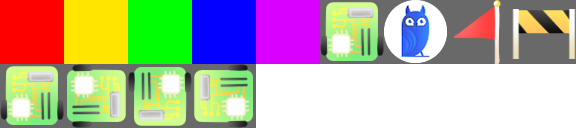
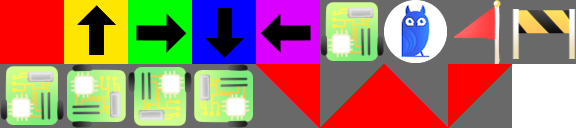
3.1.9 map_editor.md

Changed region(s): [[0.4375, 0.5, 0.9062, 1.0], [0.125, 0.0312, 0.5625, 0.4375]]

diff --git a/map_editor.md b/map_editor.md
@@ -1,13 +1,20 @@
 # 迷宮製作教學
 
-此文將會介紹如何使用`Tiled`這個軟體製作一個地圖，並放進[PAIA迷宮自走車](https://github.com/PAIA-Playful-AI-Arena/Maze_Car)中，讓我們的自走車可以跑在我們客製化的地圖。
+此文將會介紹如何使用`Tiled`這個軟體製作一個地圖，並放進[PAIA迷宮自走車](https://github.com/PAIA-Playful-AI-Arena/Maze_Car)中，讓我們的自走車可以跑在自己客製化的地圖。
 
 建立好的地圖除了可以直接放入[PAIA迷宮自走車](https://github.com/PAIA-Playful-AI-Arena/Maze_Car)，在個人環境中做使用之外，也可以分享給其他人，讓所有人使用。
+---
+# 檔案更新
+[新版圖塊集](https://github.com/PAIA-Playful-AI-Arena/Maze_Car/blob/master/asset/tile.png?raw=true)
+1. 增加四種自走車初始方向
+2. 增加斜向靜止牆壁
+3. 說明如何處理新舊版本不相容問題
+
 
 ---
 
 # 軟體安裝
-    ⚙ 製作地圖需要安裝Tiled這個軟體，請大家到 [連結](https://www.mapeditor.org) 中下載適合自己電腦作業系統的版本：
+    ⚙ 製作地圖需要安裝Tiled這個軟體，請大家到 [官網](https://www.mapeditor.org) 中下載適合自己電腦作業系統的版本：
 
 ## 安裝流程：
 
@@ -77,7 +84,8 @@
 
         
     - 在點擊「瀏覽」並打開[圖片檔](https://github.com/PAIA-Playful-AI-Arena/Maze_Car/blob/master/asset/tile.png?raw=true)。
-        ![](https://i.imgur.com/nkzfo9h.png)
+        ![](https://i.imgur.com/6Y6uqKW.png)
+
 
         ![](https://i.imgur.com/VcYvVEz.png)
 
@@ -98,7 +106,8 @@
 
     ⚙ Tiled的基本編輯方式相當簡單，只需要使用滑鼠選取圖塊集的方塊，再移動到編輯區點擊方格即可。
     也可以持續按著滑鼠左鍵拖曳繪製
-![](https://i.imgur.com/Qj4gktp.gif)
+![](https://i.imgur.com/GSNTfHy.png)
+
 
 
 
@@ -108,7 +117,7 @@
 
 圖塊集的每個格子都會有相對應的編號，其順序從1開始，由左至右、由上至下。
 
-目前自走車使用到的編號為1~9，對應到的圖塊如圖所示，這9種圖塊的功能分別為：
+目前自走車使用到的編號為1~17，對應到的圖塊如圖所示，這17種圖塊的功能分別為：
 
 1. 紅色方塊，普通牆面，不會移動
 2. 黃色方塊，從起始位置向上來回移動的牆面
@@ -119,8 +128,14 @@
 7. 終點位置
 8. 旗子圖示，檢查點位置，用於計算未走出迷宮的玩家中誰走的有效距離較遠
 9. 路障圖示，邊界點位置，車子若碰觸到則遊戲結束並視為未通關，通常用於有開放牆面的迷宮，以免玩家駛離迷宮區域
+10. 自走車圖示，車子的起始位置，車頭方向朝上(放置效果與6號相同)
+11. 自走車圖示，車子的起始位置，車頭方向朝右
+12. 自走車圖示，車子的起始位置，車頭方向朝下
+13. 自走車圖示，車子的起始位置，車頭方向朝左
+14. 14~17號積木為斜向牆壁，靜止不動。
 
-![](https://i.imgur.com/ppLiecU.png)
+![](https://i.imgur.com/ybybbMG.png)
+
 
 ---
 
@@ -209,5 +224,13 @@
     - 移動迷宮的地圖：move_map_`1`.json
     
     ![](https://i.imgur.com/Djml1sE.png)
+---
 
+## 如何更換新版圖塊集
+3.1.8版本之後新增了不同初始方向的自走車，因此也更新了新版圖塊集。但過去有使用過舊版的使用者有可能遇到編號不相容的問題，在此提供解決方法。
+2. 避免在同一個檔案下使用兩個圖塊集
+1. 刪除舊版圖塊集
+
+![](https://i.imgur.com/wwM74ig.png)
+當軟體中存在一個以上的圖塊集時編號將會存在衝突，導致載入遊戲時無法順利產生物件，因此建議使用者在同一個地圖檔案內不要使用兩個圖塊集。例如：在曾經以舊版編輯過的地圖裡直接使用新版圖塊集，可以選擇重新開新的地圖檔案套用新版的圖塊集。如果還是擔心會有混用的問題，在圖塊集的下方有垃圾桶的Icon，可以直接刪除舊的圖塊集。
 ---
